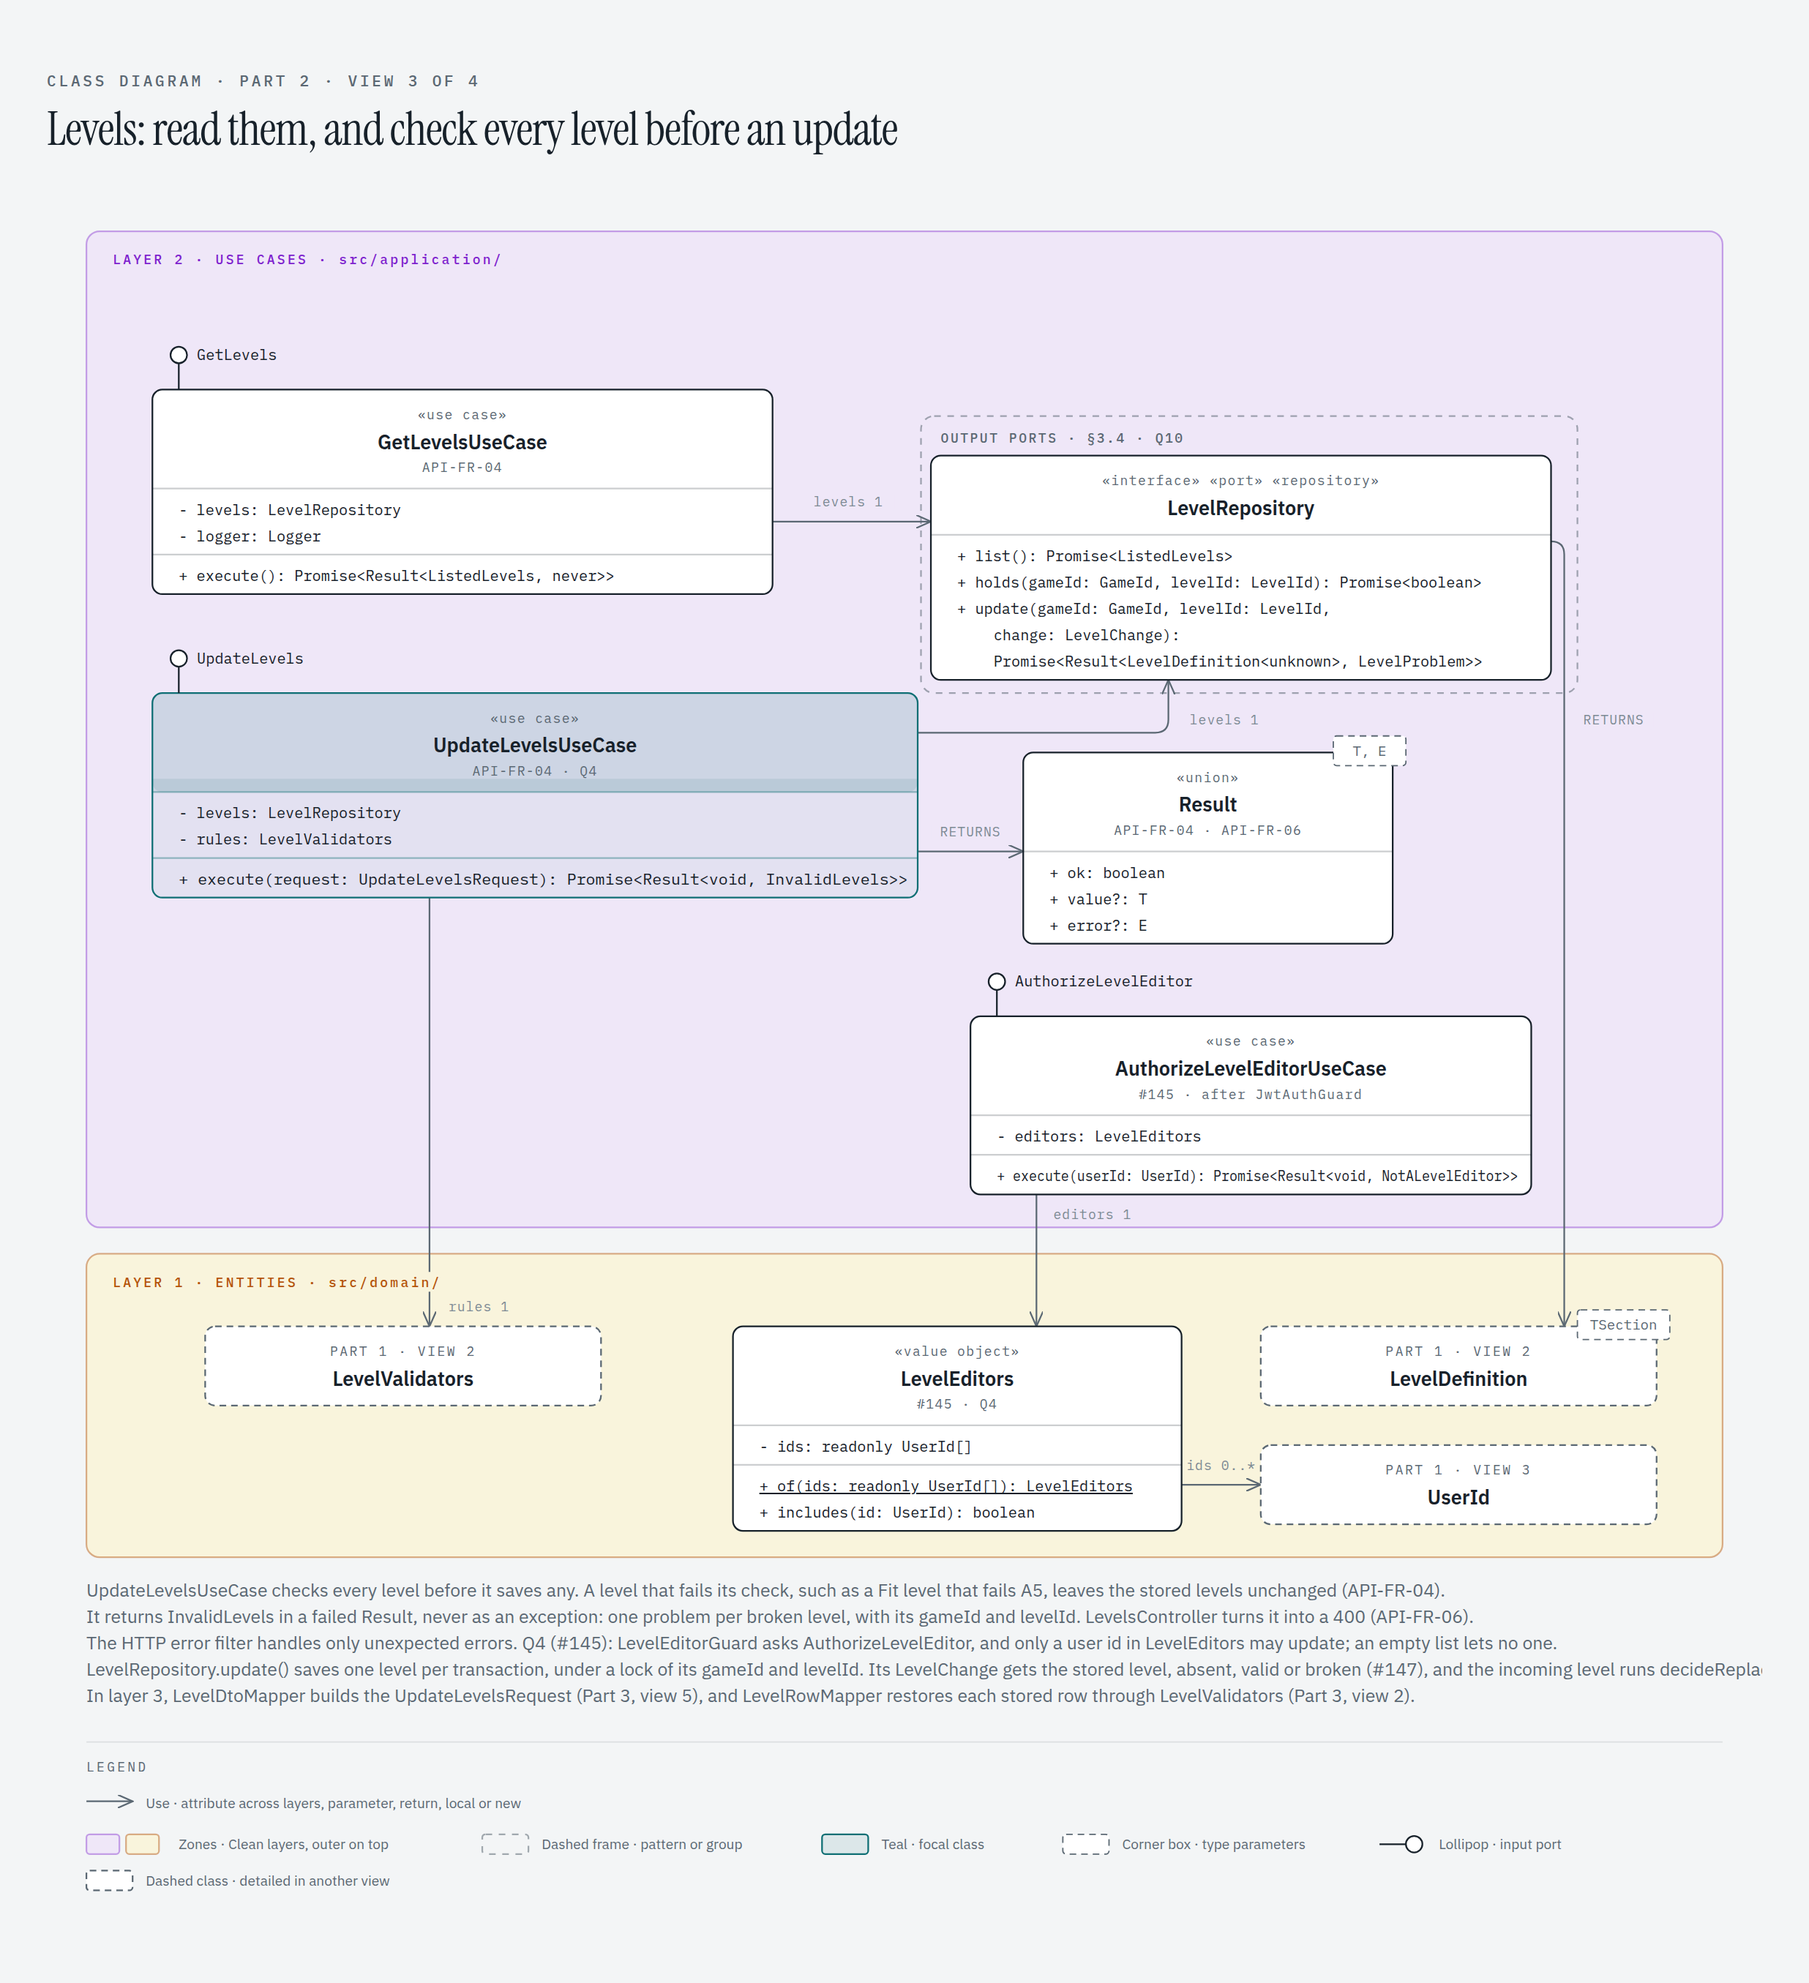
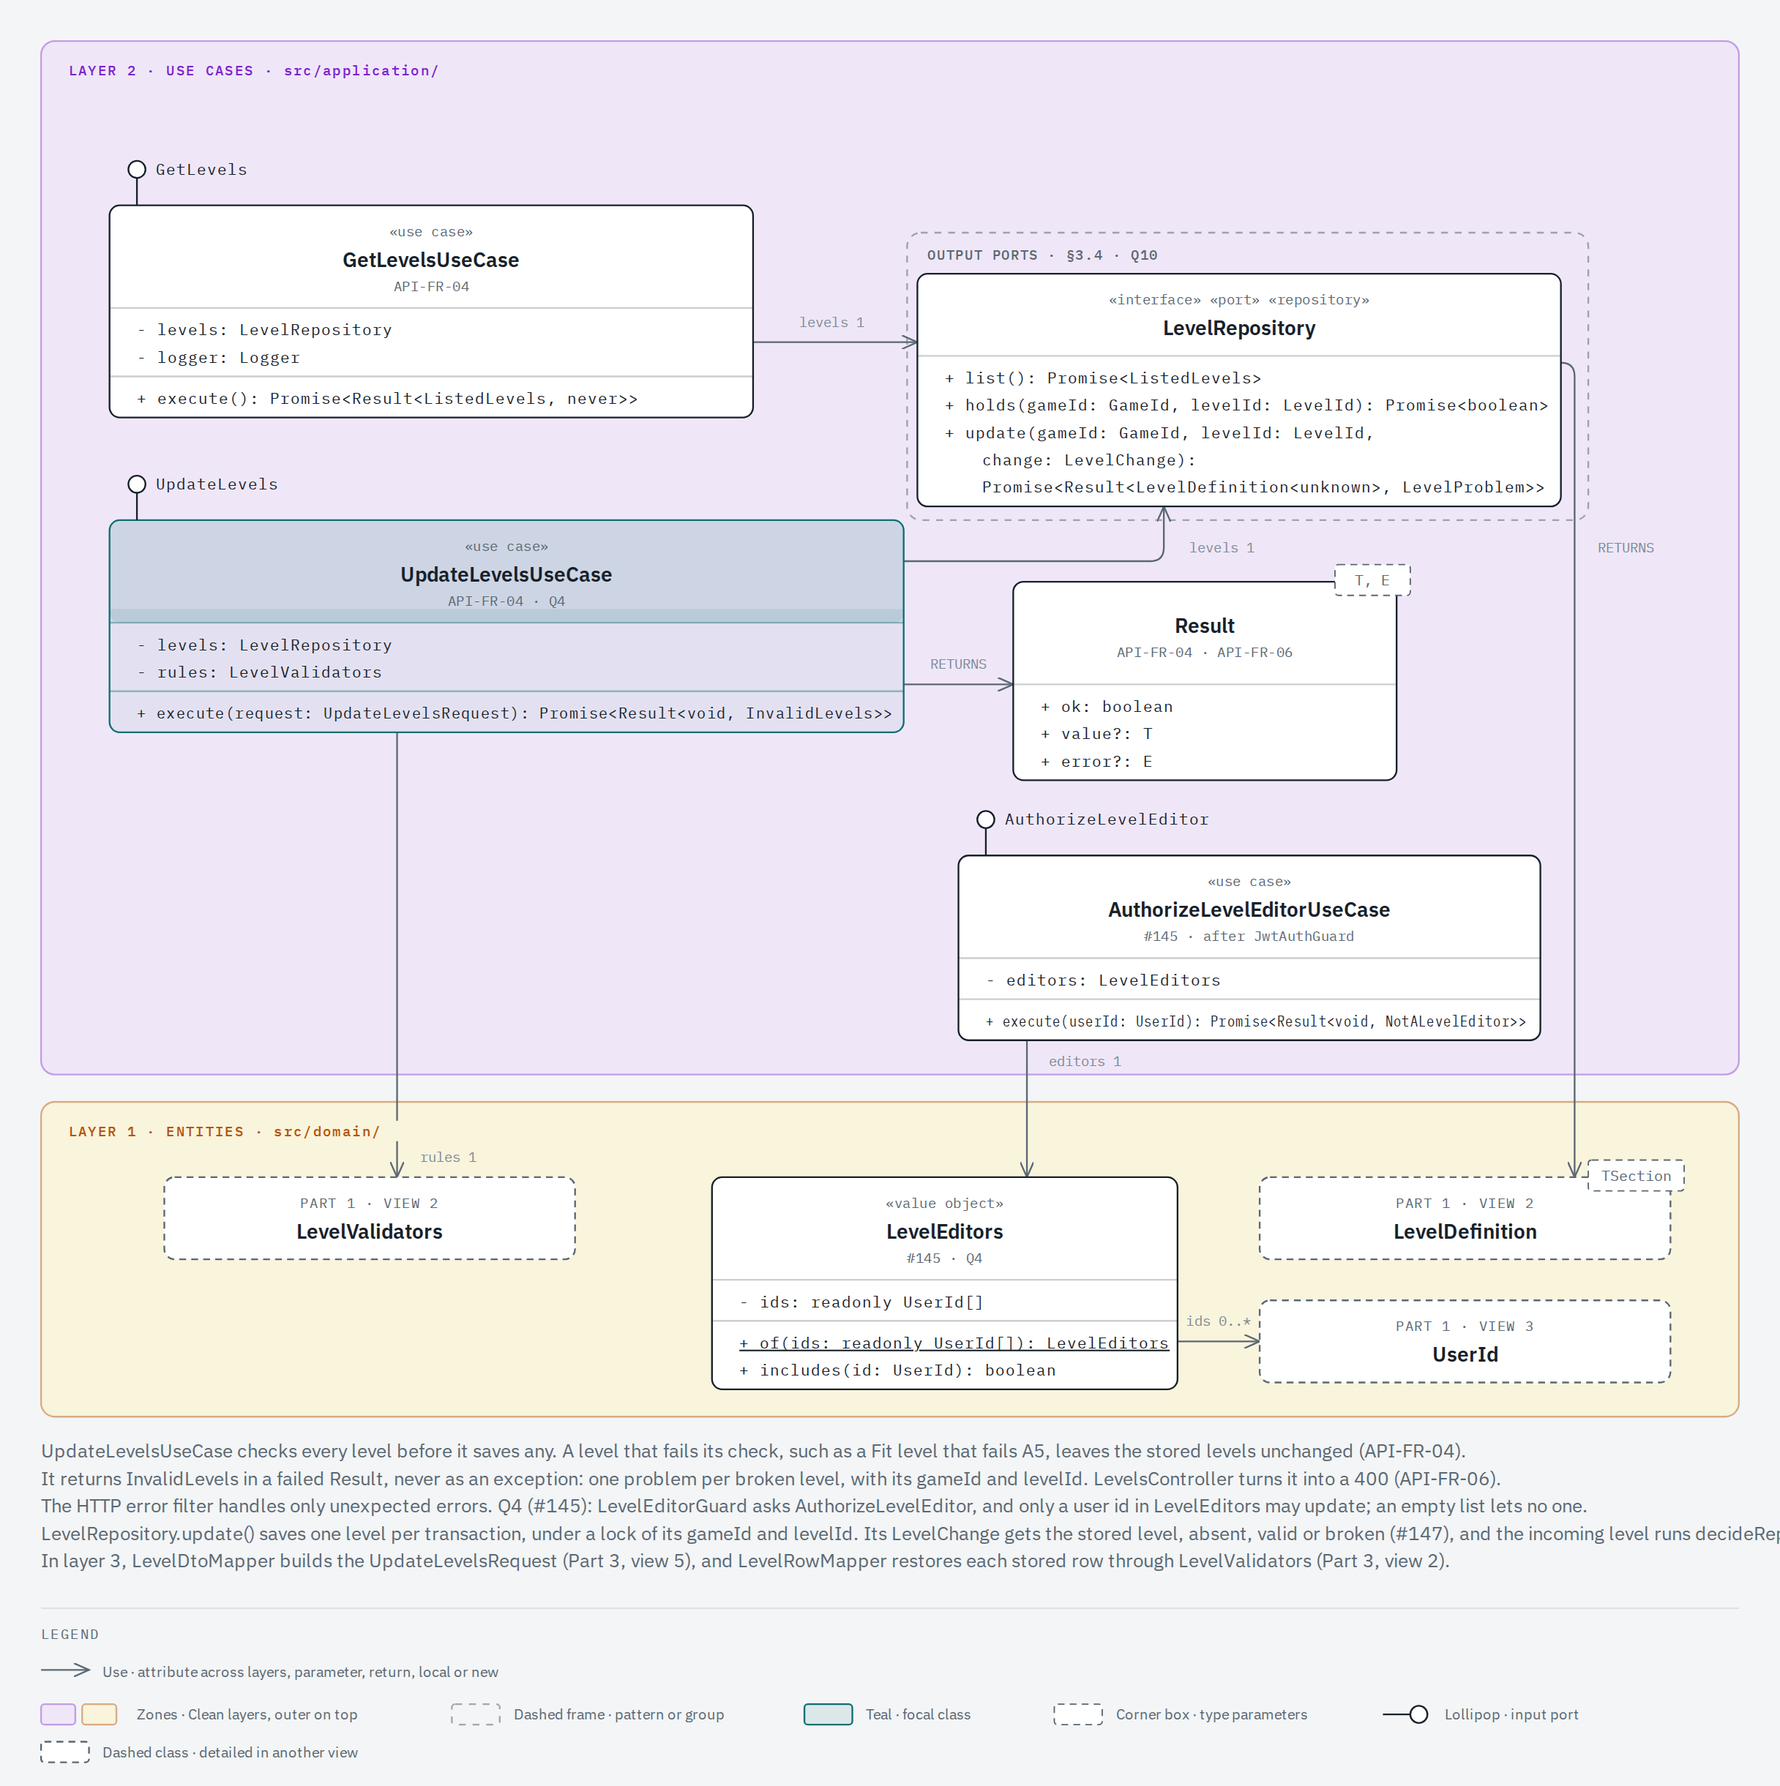
docs(architecture): print only the kind words that the notation rules give
An interface with no operation keeps «interface» alone, with no «dataType» on top.
«dataType» stays on a code class with no operation.
A union of literals prints «enumeration», and a type alias prints no kind word.
Result and the Problem types keep their box.
View 2.3 drops «union» from Result, and its PNG is rendered again.
classes.md states the rule and keeps the old one as history.

diff --git a/docs/architecture/classes/views/uc-3-levels.html b/docs/architecture/classes/views/uc-3-levels.html
@@ -526,7 +526,7 @@
         <text x="574" y="288" fill="#17212a" font-size="9" font-family="'IBM Plex Mono', monospace">
           Promise&lt;Result&lt;LevelDefinition&lt;unknown&gt;, LevelProblem&gt;&gt;
         </text>
-        <!-- Class: Result («union») -->
+        <!-- Class: Result -->
         <rect
           x="592"
           y="340"
@@ -539,18 +539,7 @@
         />
         <text
           x="704"
-          y="358"
-          fill="#5b6873"
-          font-size="8"
-          font-family="'IBM Plex Mono', monospace"
-          text-anchor="middle"
-          letter-spacing="0.08em"
-        >
-          «union»
-        </text>
-        <text
-          x="704"
-          y="376"
+          y="370"
           fill="#17212a"
           font-size="12"
           font-weight="600"
@@ -561,7 +550,7 @@
         </text>
         <text
           x="704"
-          y="390"
+          y="384"
           fill="#5b6873"
           font-size="8"
           font-family="'IBM Plex Mono', monospace"

diff --git a/AI_USAGE.md b/AI_USAGE.md
@@ -103,6 +103,7 @@ TODO: add one entry per task: date, task, tool, prompt summary, what was kept an
 | 2026-11-21 | Class diagram: a fixed order and a look that reads                                  | Claude Code | Claude Code with Claude Fable 5.2, and Claude Opus 5.5 as its `odd-worker` subagent, moved the settings of the diagram generator next to the diagram as `classes.config.json`, wrote `classes.layout.json` with an order of the groups and the boxes that it chose on the rendered pages, and generated `classes.drawio` again at `3820cd8` with the tool `drawio-clases` of the organization repository. In the new look a `use` line is thin and lives in its own layer, and a group of 12 boxes or more has a frame per view. `classes.md` says which hand edits survive a generation. The check and the render of the tool report no finding on the 4 pages.                                                                                                                                                                                                                                                                                                                                                                                                                                                                                                                                                                                | Pending team review                                                                                                                             |
 | 2026-11-21 | #174 move the level version rule from UpdateLevels into LevelDefinition             | OpenCode    | OpenCode with GLM 5.3 moved `StoredLevel` and `StoredLevelProblem` from the `LevelRepository` port to `src/domain/level/stored-level.ts`, with the port importing them, and wrote the RED domain tests of `decideReplace` first: no row stored, a valid stored level with a lower, an equal and a higher version, a broken row with a newer, an equal and a lower version, and a broken row with no valid version, all seen red with `decideReplace is not a function`. Then added `LevelDefinition.decideReplace(stored)` next to `accepts()`, which reuses `accepts()` over a valid stored level and `isOlderThan()` over a broken row, changed the change of `UpdateLevelsUseCase` to `(stored) => level.decideReplace(stored)`, deleted `versionRule()`, updated decision 4 and decision 19 of `classes.md`, the prose of `flows.md` and the views uc-3-levels, flow-3-update-levels, ad-2-level-store and seq-3-update-levels, and added the entry of `CHANGELOG.md` under Unreleased. No HTTP answer and no existing test change. After the merge of main (#175), regenerated `classes.drawio` with the tool `drawio-clases` at `dad0a45` and moved `StoredLevel` and `StoredLevelProblem` to the domain groups of `classes.layout.json`. | Pending team review                                                                                                                             |
 | 2026-11-24 | Decision 13: a decorator draws a hollow diamond (no issue)                          | Claude Code | Claude Code with Claude Opus 5.5, as the `odd-worker` writer, rewrote the rule of «How to read it» and decision 13 of `docs/architecture/classes.md` from the drawing of the class of 2026-11-23, kept the decision of 2026-11-15 as history, and changed the same rule in `docs/REQUIREMENTS.md`, `extensibility.md` and `flows.md`. It turned the `inner 1` use line of view 2.1 into a hollow diamond `decorate 1`, added it to the legend, and rendered the PNG with the headless shell after a render of the old view matched the committed PNG pixel for pixel. It named the pair a `Decorator` in `classes.config.json` and generated `classes.drawio` again with the tool `drawio-clases`, and compared its lines with the committed diagram. Passive documentation, so no test was red first; `check.mjs` and `pnpm verify` ran.                                                                                                                                                                                                                                                                                                                                                                                                       | Pending team review                                                                                                                             |
+| 2026-11-24 | Notation of the class diagram: no «dataType» on an interface (no issue)             | Claude Code | Claude Code with Claude Opus 5.5, as the `odd-worker` writer, rewrote the notation rule of «How to read it» in `docs/architecture/classes.md` from the decision of 2026-11-24 and kept the old rule as history. It removed `«union»` from `Result` in view 2.3 and rendered the PNG with the headless shell. It generated `classes.drawio` again with the fixed tool `drawio-clases` and compared every box and line with the committed diagram: only the kind words changed. Passive documentation, so no test was red first; `check.mjs` and `pnpm verify` ran.                                                                                                                                                                                                                                                                                                                                                                                                                                                                                                                                                                                                                                                                               | Pending team review                                                                                                                             |
 
 ## Critical Evaluation
 

diff --git a/docs/architecture/classes.md b/docs/architecture/classes.md
@@ -10,14 +10,14 @@ This page answers statement §4.1 for the API, as decision D6 asks (it replaces 
 
 - Page 1, `All classes`, holds every class, interface and type of the model once, by layer: layer 4 at the top and layer 1 at the bottom, so every dependency points down.
 - Pages 2 to 4, `Domain`, `Use cases` and `Adapters`, hold one part each. A part page shows the types of its part in full. A grey box with the name only is a type of another part that one of its lines touches, and its eyebrow names the page that details it.
-- A solid box is a type that exists in the code at `06cec7d`. A dashed box with `«planned»` is design from the views of this page that the code does not have yet. It keeps the `«Sprint N»` of its view when the view gives one.
+- A solid box is a type that exists in the code at `8d8b248`. A dashed box with `«planned»` is design from the views of this page that the code does not have yet. It keeps the `«Sprint N»` of its view when the view gives one.
 - `members not designed yet` marks a planned class that no view details.
-- `«dataType»` marks a type in the code that only carries data; it has no operations by design. `«module»` marks `AppModule`, a Nest module that only holds decorator metadata.
+- `«dataType»` marks a class in the code with no operation: it only carries data, by design. An interface with no operation carries `«interface»` alone. `«enumeration»` marks a union of literals, such as `LevelProblem`, with one literal per line. A type alias carries no kind word: its box shows its name and `= <aliased type>`, or its attributes, as `Result` and `ProgressProblem` do. `«module»` marks `AppModule`, a Nest module that only holds decorator metadata. Changed on 2026-11-24: before, `«dataType»` marked every type in the code that only carries data, so 22 interfaces showed `«dataType»` too, a union of literals showed `«union»`, and a type alias showed `«type»` or `«union» «type»` as a stereotype.
 - A line of structure (extends, implements, aggregation, composition) is thick. A `use` line is thin and light, and it lives in the draw.io layer `use lines`. Hide that layer in Edit > Layers to read the structure alone.
 - Inside a group of 12 boxes or more, a frame holds the boxes of one view of this page. The frame title is the file name of the view in [`classes/views/`](classes/views/), for example `view ad-3-http` for `ad-3-http.png`.
 - The pages follow the reading rules of the next section, and each page has a legend.
 
-The file is generated from the code at `06cec7d` plus the views of this page, by the tool [`drawio-clases`](https://github.com/Hexablock-Suite/.github/tree/main/tools/drawio-clases) of the organization repository. The README of the tool gives the commands. [`classes.config.json`](classes.config.json) maps the folders and the views to layers and parts. [`classes.layout.json`](classes.layout.json) fixes the order of the groups of each band and of the boxes of each group.
+The file is generated from the code at `8d8b248` plus the views of this page, by the tool [`drawio-clases`](https://github.com/Hexablock-Suite/.github/tree/main/tools/drawio-clases) of the organization repository. The README of the tool gives the commands. [`classes.config.json`](classes.config.json) maps the folders and the views to layers and parts. [`classes.layout.json`](classes.layout.json) fixes the order of the groups of each band and of the boxes of each group.
 
 A hand edit of that order survives. Move the boxes in draw.io, run `pin.mjs` of the tool to write the order into `classes.layout.json`, and generate the file again. Commit `classes.drawio` and `classes.layout.json` together. Any other hand edit is lost at the next generation: a pixel position, a line route, a text or a style.
 

diff --git a/CHANGELOG.md b/CHANGELOG.md
@@ -12,6 +12,7 @@ Each sprint of the plan in [`hexablock-app/docs/ROADMAP.md`](https://github.com/
 
 ### Changed
 
+- The boxes of `docs/architecture/classes.drawio` print only the words that the notation rules give. An interface with no operation shows `«interface»` alone, without `«dataType»` on top; `«dataType»` stays on a class in the code with no operation. A union of literals, `LevelProblem`, shows `«enumeration»` instead of `«union»`, and a type alias shows no `«type»` or `«union»` word. `Result` and the `*Problem` types keep their box. The notation rule of `docs/architecture/classes.md` says so, with a dated note that keeps the old rule as history. View 2.3 no longer prints `«union»` on `Result`, with its PNG. `classes.drawio`, generated again at `8d8b248` with the fixed tool `drawio-clases`, changes no line.
 - A decorator draws a hollow diamond, as the professor drew the aspects in the class of 2026-11-23. Decision 13 and «How to read it» of `docs/architecture/classes.md` now say that a decorator joins the type that it wraps with a hollow diamond on the side of the decorator, with the label `decorate` and the multiplicity `1`, and that an aspect is a decorator; the decision of 2026-11-15 stays as history. View 2.1 draws `UseCaseAspect` to `UseCase` this way, with its PNG, and `classes.config.json` names the pair a `Decorator`. `classes.drawio`, generated again at `06cec7d`, gains that aggregation and the use line `Range` to `Ordered`, which a fix of the tool `drawio-clases` adds for an attribute typed by a type parameter. `docs/REQUIREMENTS.md` (API-NFR-10), `extensibility.md` and `flows.md` state the same rule. No code changes.
 - `docs/architecture/classes.drawio` keeps a hand-made order, and its look reads better. `docs/architecture/classes.layout.json` fixes the order of the groups and the boxes, and `pin.mjs` of the tool `drawio-clases` writes that file from a diagram that a person moved in draw.io. A `use` line is thin and lives in the layer `use lines`, and a group of 12 boxes or more has a frame per view. The generator now lives in the organization repository, and its settings live in `docs/architecture/classes.config.json`.
 - The version rule of S3-10 runs in the domain ([#174](https://github.com/Hexablock-Suite/hexablock-api/issues/174)). `LevelDefinition.decideReplace(stored)`, called on the incoming copy, decides over each stored state: an absent store takes it, a valid stored level decides through `accepts()`, and a broken row compares only its stored version, when the row holds one. `StoredLevel` and `StoredLevelProblem` moved from the `LevelRepository` port to `src/domain/level/stored-level.ts`, so the domain owns the closed union of the stored states and the port imports it. `UpdateLevelsUseCase` only coordinates: its change is `level.decideReplace(stored)`, and it holds no branch on the stored state. No HTTP answer changes, and `openapi/openapi.json` does not change.
